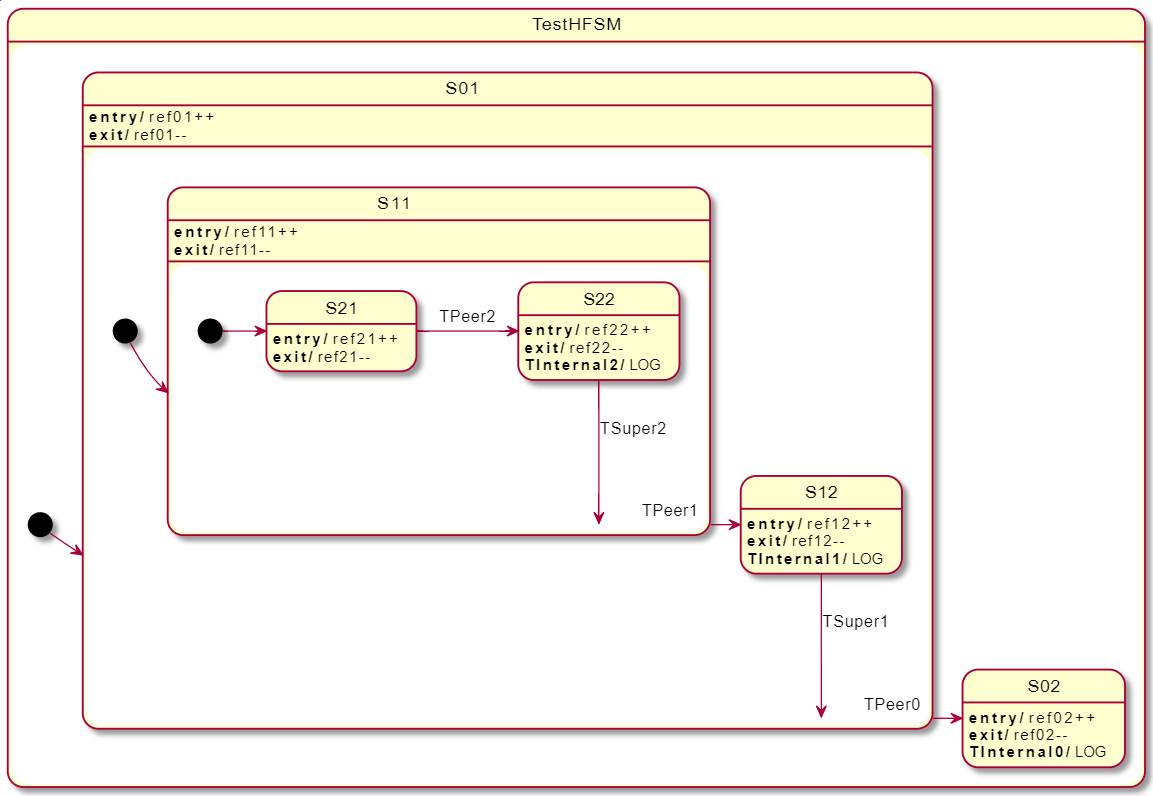
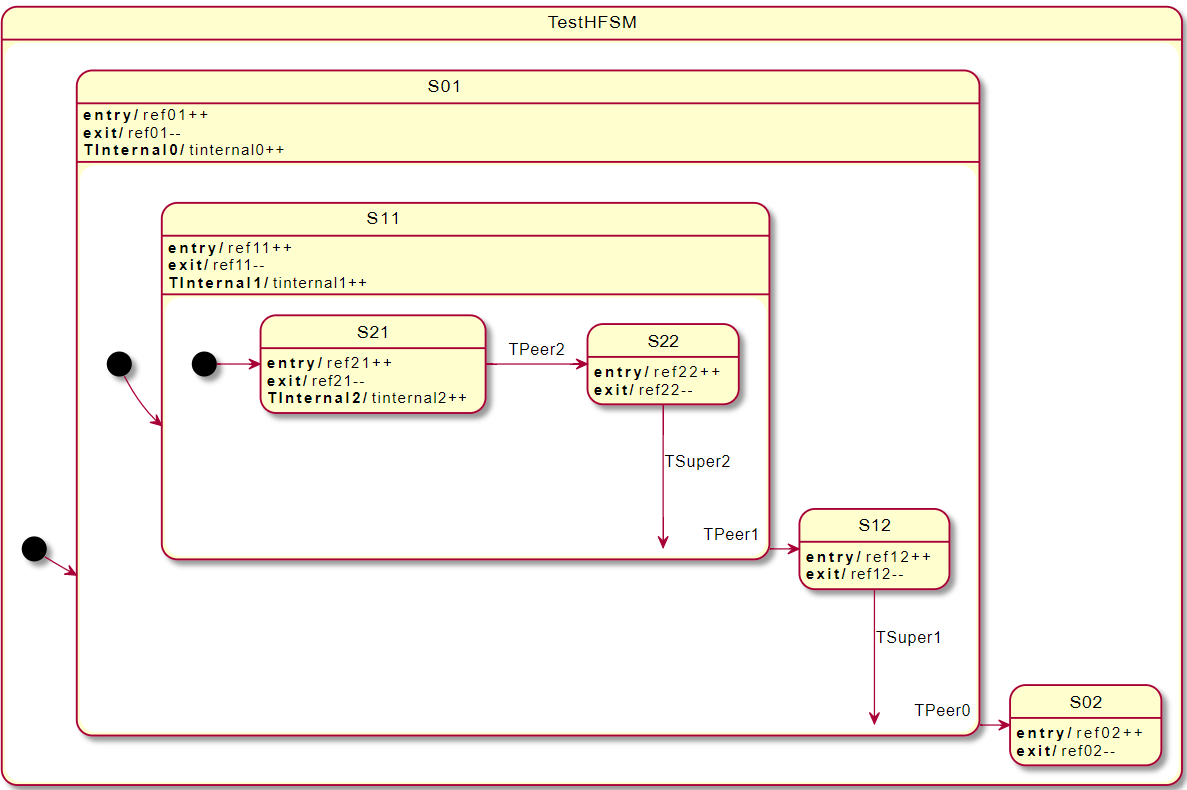
Changes to test_hsm

Changed region(s): [[0.0, 0.0, 1.0, 1.0]]

diff --git a/test/test_hfsm_stack.c b/test/test_hfsm_stack.c
@@ -1,5 +1,7 @@
 #include <stdio.h>
 #include <stdint.h>
+#include <assert.h>
+
 #include <test_assert.h>
 
 #include <hfsm_stack.h>
@@ -27,6 +29,11 @@ typedef enum
   T_INTERNAL_0 = HFSM_EVENT(0),
   T_INTERNAL_1 = HFSM_EVENT(1),
   T_INTERNAL_2 = HFSM_EVENT(2),
+  T_SUPER_1 = HFSM_EVENT(3),
+  T_SUPER_2 = HFSM_EVENT(4),
+  T_PEER_0 = HFSM_EVENT(5),
+  T_PEER_1 = HFSM_EVENT(6),
+  T_PEER_2 = HFSM_EVENT(7),
 } test_hfsm_event_type;
 
 static int ref01 = 0;
@@ -52,16 +59,24 @@ static int S01(hfsm* me, hfsm_event event, int(** super_state)())
   {
     case HFSM_ENTRY:
       ref01++;
-      return hfsm_transition_substate(me, S01, S11);
+      ret = hfsm_transition_substate(me, S01, S11);
       break;
 
     case HFSM_EXIT:
       ref01--;
       break;
 
+    case T_PEER_0:
+      ret = hfsm_transition_peer(me, S01, S02);
+      break;
+
+    case T_INTERNAL_0:
+      tinternal0++;
+      break;
+
     default:
-      // Unknown event.
-      ASSERT_TRUE(0);
+      printf("Unknown event %d", event.type);
+      assert(0);
   }
 
   return ret;
@@ -86,13 +101,9 @@ static int S02(hfsm* me, hfsm_event event, int(** super_state)())
       ref02--;
       break;
 
-    case T_INTERNAL_0:
-      tinternal0++;
-      break;
-
     default:
-      // TOP level - ignore unknown events.
-      ASSERT_TRUE(0);
+      printf("Unknown event %d", event.type);
+      assert(0);
   }
 
   return ret;
@@ -111,10 +122,19 @@ static int S11(hfsm* me, hfsm_event event, int(** super_state)())
   {
     case HFSM_ENTRY:
       ref11++;
+      ret = hfsm_transition_substate(me, S11, S21);
       break;
 
     case HFSM_EXIT:
       ref11--;
+      break;
+
+    case T_PEER_1:
+      ret = hfsm_transition_peer(me, S11, S12);
+      break;
+
+    case T_INTERNAL_1:
+      tinternal1++;
       break;
 
     default:
@@ -143,6 +163,10 @@ static int S12(hfsm* me, hfsm_event event, int(** super_state)())
       ref12--;
       break;
 
+    case T_SUPER_1:
+      ret = hfsm_transition_superstate(me, S12, S01);
+      break;
+
     default:
       ret = S01(me, event, NULL);
   }
@@ -162,11 +186,19 @@ static int S21(hfsm* me, hfsm_event event, int(** super_state)())
   switch ((int)event.type)
   {
     case HFSM_ENTRY:
-      ref01++;
+      ref21++;
       break;
 
     case HFSM_EXIT:
-      ref01--;
+      ref21--;
+      break;
+
+    case T_PEER_2:
+      ret = hfsm_transition_peer(me, S21, S22);
+      break;
+
+    case T_INTERNAL_2:
+      tinternal2++;
       break;
 
     default:
@@ -195,6 +227,10 @@ static int S22(hfsm* me, hfsm_event event, int(** super_state)())
       ref01--;
       break;
 
+    case T_SUPER_2:
+      ret = hfsm_transition_superstate(me, S22, S11);
+      break;
+
     default:
       ret = S11(me, event, NULL);
   }
@@ -205,8 +241,9 @@ static int S22(hfsm* me, hfsm_event event, int(** super_state)())
 
 int test_hfsm_stack_internal()
 {
+  ASSERT_TRUE(!hfsm_init(&test_hfsm, S01));
 
-  return 0;
+  return ret;
 }
 
 int main()

diff --git a/doc/hfsm_design.md b/doc/hfsm_design.md
@@ -1,0 +1,9 @@
+## 1. hfsm_stack : CPU stack based implementation
+
+This implementation requires n + 2 stack frames, where n is the depth of the hierarchical state machine.
+
+## 2. hfsm_hardcoded: Hardcoded hierarchy definition
+
+Stack usage improvements:
+
+1. Superstate event handling (`default:` switch case) can be postponed after the stack-frame exits, within the `hfsm_post_event()` function by using return codes. The deep CPU stack can be converted into a `for` loop.

diff --git a/doc/test_strategy.md b/doc/test_strategy.md
@@ -15,6 +15,9 @@ Test matrix for all supported transitions:
 | TSub0 | Init |
 | TSub1 | S01 |
 | TSub2 | S11 |
+| TInternal0 | S01, S11, S21, S22 |
+| TInternal1 | S11, S21, S22 |
+| TInternal2 | S21 |
 | TSuper1 | S12 |
 | TSuper2 | S22 |
 | TPeer0 | S01, S11, S12, S21, S22 |
